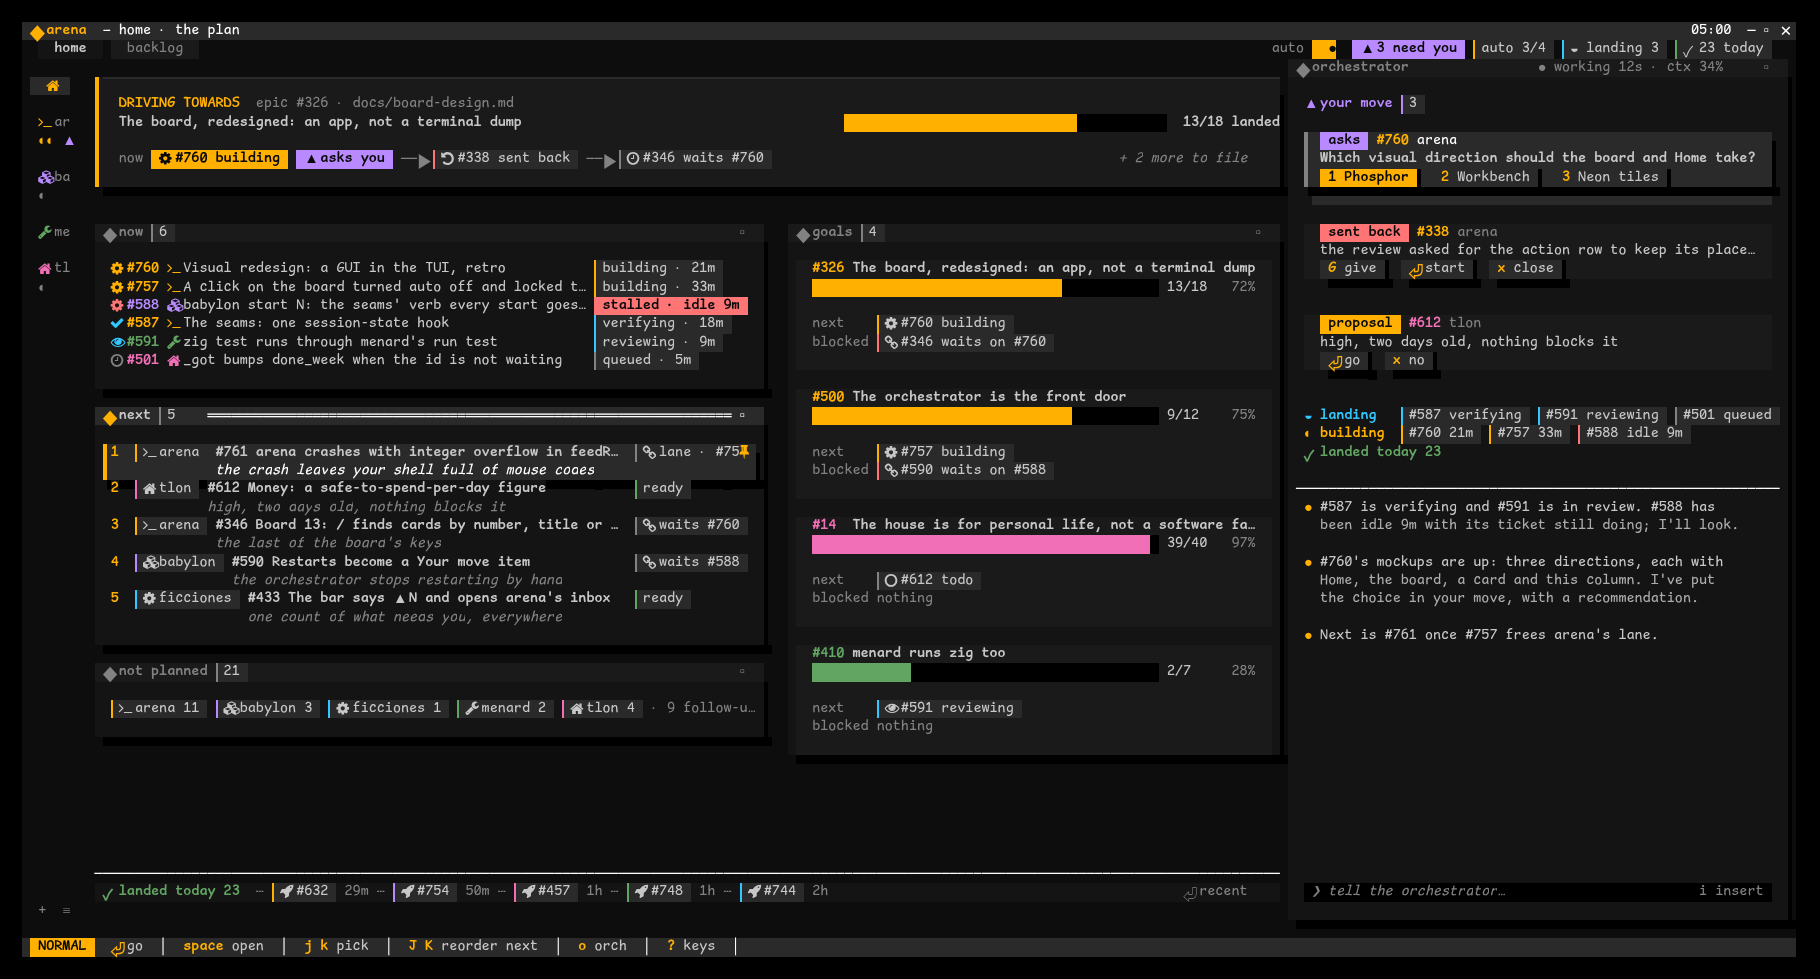
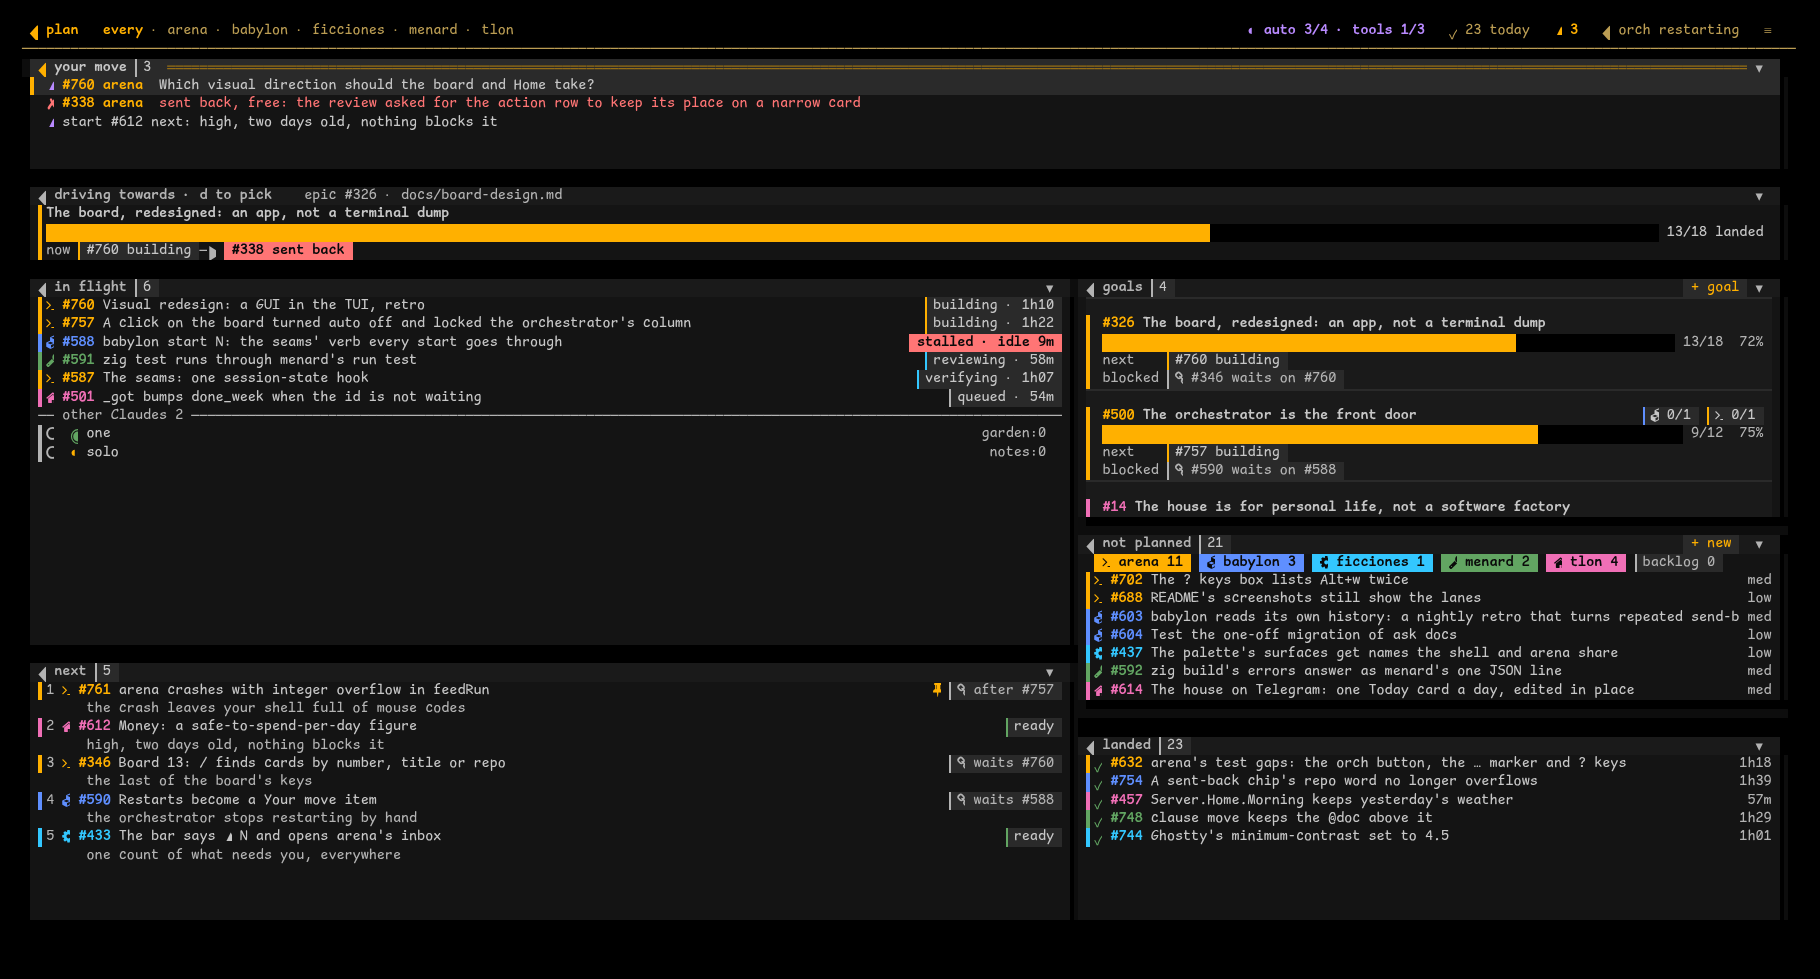
No rail 8: README for the switcher, Your move and the drawer; strip.png and plan.png taken again; old docs say superseded
Claude-Session: https://claude.ai/code/session_018wugBTHCvngPWRfwerXjsY

diff --git a/README.md b/README.md
@@ -46,43 +46,49 @@ always did; arena draws them and leaves them running when it quits.
 - **Home is the plan**, from [babylon](https://github.com/lessthanseventy/babylon)'s tickets, which every
   Claude on the machine shares: what is running, what comes next and why, how far each goal has
   got, and what landed. `arena` with no session named opens it, and `b` in normal mode, a click on
-  `◆ home` in the foot row and `arena inbox` go there. The orchestrator's column is pinned on
-  its right (60 cells, less on a narrow screen), and at half a screen home shows one of the two,
-  `p` for the plan and `o` for the column.
+  `◆ home` in the foot row and `arena inbox` go there. Plan has the whole width: there is no side
+  rail, and the orchestrator is a drawer on `o`, not a column. At half a screen it is one column
+  of fixed slots.
 
-  ![Home: the plan beside the orchestrator's column](docs/screenshots/plan.png)
+  ![Home: the plan over the whole width](docs/screenshots/plan.png)
 
-  - **now** is each Claude at work, how long, and `stalled` when it has gone quiet; the pipeline
-    (verifying, reviewing, landing) is under it. **next** is a short numbered list, each ticket with
+  - **Your move** is the top window, a fixed slot of five rows (three at half a screen) that
+    scrolls: what needs you as babylon's `needs_you` words it, one line each, and a Claude that
+    waits in its pane. The picked item opens to its card, with its actions. It is read from babylon's
+    file, so it stays while the orchestrator is off or restarting; `]` and `[` go to its first
+    and last item from anywhere on the plan.
+  - **in flight** is each Claude at work, how long, and `stalled` when it has gone quiet, with the
+    pipeline (verifying, reviewing, landing) in the same rows; Claudes with no ticket are listed at
+    its foot as **other Claudes**. **next** is a short numbered list, each ticket with
     a why in a line and what it waits on (`free now`, `needs #589`); auto starts from its top. **goals**
     are the epics, a bar and a count each, the focal one atop. **landed** is today's, and
     **not planned** the todo cards that are in no next.
   - `j` `k` pick through the rows, `⏎` goes (to a Claude, or starts a ticket of next now), `space`
     opens the ticket and `t` its modal. On a row of next, `J` `K` move it, `x` takes it out, `e` edits
     its why, and dragging a row onto another takes that place. Every one runs `babylon next …`.
-  - The column's head says the orchestrator's state (`working 12s`, `▲ waits on you`, `idle`,
-    `◌ restarting`, `off`) and its context's share; while it is off it says
-    `orchestrator off · ⏎ start it`, and Enter there runs `babylon orchestrator`. When the
-    orchestrator's session ends, as babylon restarts it, home stays open in the session you were
-    in, and the column comes back on the new one with the keys where you left them. Alt+l, or a click
-    on it, focuses it, and what is typed, the wheel and the mouse are then its own. Alt+h, or a click
-    on the plan, goes back. `` ` `` folds it away.
-  - Atop the column is the feed: what is your move as babylon's `needs_you` words it, each with its
-    actions, then what is landing in queue order, what is being built, and how many landed today. It
-    is read from babylon's file, so it stays while the orchestrator is off or restarting. The plan's
-    pick and the feed's light each other's ticket, dim.
+  - Plan's head says the orchestrator's state (`◆ orch working 12s`, `waits on you`, `stalled`,
+    `restarting`, `off`), and a click on it opens the drawer. `o` opens the orchestrator's drawer
+    from any view, started first when it is not running; it is the orchestrator's chat over the
+    right 60 cells of Plan (the whole width at half a screen), drawn over it so Plan does not move.
+    What is typed, the wheel and the mouse are the chat's while it is open. `o` or `Esc`
+    closes it. When the orchestrator's session ends, as babylon restarts it, the drawer
+    comes back on the new one.
   - On a ticket's row: `G` on a free ticket lists the running Claudes and gives it to one, `H` asks
     its Claude to hand it off, `e` edits it in `$EDITOR`, `p` raises its priority, `>` closes a
     ticket still to do and `<` opens it again, `w` puts it at the bottom of next and asks its why,
     `W` at the top, and `+` files a ticket. `/` finds by number or title and `r` narrows every
     window to one repo. `space` shows the whole ticket: its body, links, stage and the note on it,
     and the last of its gate's log.
-  - `o` opens the orchestrator, started first when it is not running. While babylon's auto mode
+  - While babylon's auto mode
     is on, babylon starts a Claude on each free ticket, from the top of next, up to its cap of
     Claudes working, and the head says `auto 1/2`. `A`, or a click on the head's `auto`,
     opens its settings: auto and hold as switches, and each repo's cap as `[-] 2 [+]`, 0 pausing
     it (`j` `k` pick, `+` `-` step, `a` `H` switch, `esc` closes). A change shows at once and
     babylon is told the last value; a click on the switch itself still turns auto on or off.
+- **A switcher**: `s` from any view lists every Claude, those that wait first, then every session
+  with its window count and `+ new session`, before anything is typed; typing filters them, and
+  windows and tickets too, as `/` finds. `j` `k` move, `⏎` goes, `space` opens a Claude's card,
+  `J` `K` order the sessions and `x` closes one, after asking.
 - **Jump** to any window in any session by typing part of its name.
 - **A menu** for everything, for when you would rather click.
 - **Mouse throughout**: click, wheel, drag to select and copy (shift-drag over a program that takes
@@ -130,13 +136,13 @@ by every Claude on the machine, over MCP, and its hooks; arena's plugin keeps on
 ## Use
 
 ```sh
-arena             # home: the plan and the orchestrator's column; with no board, the most recent session
+arena             # home: the plan; with no board, the most recent session
 arena work        # the session called work, made if it is not there
 arena -L socket   # a tmux server other than the default one
 arena plan 240    # the plan with its pick on ticket 240, in the arena that is running (`arena board 240` is the same)
 arena show %290   # pane 290 in front: its session and window
 arena show '#324' # the pane of the Claude holding ticket 324
-arena inbox       # home, with what needs you atop the orchestrator's column
+arena inbox       # home, where Your move is atop
 ```
 
 `plan`, `show` and `inbox` are the only supported way in from outside arena: the shell's popups,
@@ -155,8 +161,7 @@ There are two modes, and a single letter is never arena's in the first. In inser
 every key goes to the shown pane, apart from a few Alt chords. `Ctrl+Space` makes it normal,
 where no key is typed into a pane, `NORMAL` shows at the bottom-left and the row under the strip
 says the keys; `i`, `Esc` or `Ctrl+Space` is insert again. A click on a pane is insert, and one
-on the foot row is normal. With home open, `Ctrl+Space` focuses the orchestrator's column, as
-`Alt+l`.
+on the foot row is normal.
 
 Alt+j, Alt+m, Alt+o, Alt+p and Alt+w are not arena's, so they reach Claude Code: Alt+o toggles
 its fast mode and Alt+p opens its model picker. Their arena uses are the normal-mode keys below.
@@ -175,8 +180,10 @@ In normal mode:
 | `c` | a new window |
 | `x` | close the window, after asking |
 | `z` | give the session's columns the whole width, and back |
+| `s` | the switcher: every Claude and session; `/` in a pane view opens it too |
 | `/` | find: a window by name, a Claude by its branch, a ticket by its number or title; `⏎` goes |
-| `o` | the overview |
+| `o` | the orchestrator's drawer, in every view |
+| `O` | the overview |
 | `b` | home, the plan |
 | `n` | the needs-you inbox |
 | `g` | the gate's modal, for the run in progress |

diff --git a/docs/plan-view.md b/docs/plan-view.md
@@ -35,6 +35,8 @@ as [the orchestrator](orchestrator.md#the-orchestrators-column) has it.
 
 ## Home, at the whole screen (210 cells)
 
+*Superseded by [no-rail.md](no-rail.md) wherever this page mentions the rail or the pinned column: arena has no rail, and the orchestrator is a drawer.*
+
 The plan takes the board's place. The rail is narrow on the left, and the column is pinned on the
 right at 60 cells, as today. The data is the live board of 2026-11-23 07:05Z; next is drawn as the
 orchestrator would set it.

diff --git a/docs/orchestrator.md b/docs/orchestrator.md
@@ -231,6 +231,8 @@ building are one row each. Under about 60 cells the rail folds away as well, and
 
 ## The rail, narrow
 
+*Superseded by [no-rail.md](no-rail.md): arena has no rail, and the orchestrator is a drawer.*
+
 At home the rail is narrow, as the board design has it, and it holds less. It shows each tmux
 session, and under it only the Claudes that are **working** (`◐`) or **wait on the human** (`▲`),
 each one by its ticket number (#358). The rest of the session's Claudes fold into one `· 4`
